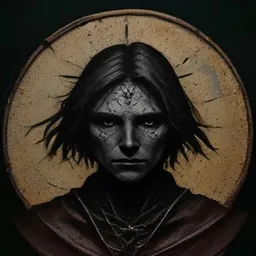
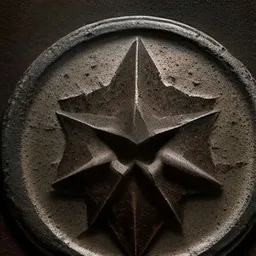
Arène : tous les portraits peints des créatures (35), bêtes refaites sans visage humain
Claude-Session: https://claude.ai/code/session_01Mt2e3itZ4Mc98AKZKLgxUC

diff --git a/tv/tools/images-cartes/generer-creatures.py b/tv/tools/images-cartes/generer-creatures.py
@@ -8,9 +8,14 @@ from PIL import Image
 D = Path(__file__).resolve().parents[2] / 'img' / 'creatures'
 STYLE = ('dark fantasy creature portrait, head and shoulders, facing the viewer, centered, ink and watercolor illustration on aged parchment, '
          'bold ink outlines, muted earthy colors with one vivid accent, dramatic rim light, dark vignette, plain dark background, no text')
+# pour les bêtes, sans « portrait » : sinon le modèle dessine une personne
+STYLE_BETE = ('dark fantasy bestiary illustration of the creature alone, no human, no person, no face of a person, centered, close-up, '
+              'ink and watercolor on aged parchment, bold ink outlines, muted earthy colors with one vivid accent, dark vignette, plain dark background, no text')
+BETES = {'garde','oiseau','felin','canide','bovin','cheval','singe','ours','reptile','insecte','rongeur','aquatique','objet','bete','luciole',
+         'Larve de lave','Anguille des canaux','Luciole ardente','Crabe-racine','Reine-luciole','Mâtin de cloche'}
 SUJETS = {
  'heros': 'a hooded wandering hero with a glowing staff and red cloak, determined eyes',
- 'garde': 'a great round iron shield with a carved star emblem, glowing faintly, no person',
+ 'garde': 'a great round iron shield with a carved star emblem lying on stone, glowing faintly, still life, object only',
  'sentinelle': 'a stone sentinel golem with glowing runes and a spear',
  'oiseau': 'a fierce bird of prey with spread wings and sharp beak',
  'felin': 'a wild lynx-like cat with tufted ears and glowing eyes',
@@ -20,26 +25,26 @@ SUJETS = {
  'singe': 'a maned baboon-like monkey with intense red chest',
  'ours': 'a huge bear standing, roaring',
  'reptile': 'a scaled lizard-serpent with forked tongue',
- 'insecte': 'a giant beetle with iridescent shell surrounded by a buzzing swarm',
+ 'insecte': 'a giant horned beetle insect with iridescent shell, surrounded by a buzzing swarm of flies',
  'rongeur': 'a quick hare-like rodent with long ears, alert',
- 'aquatique': 'a fierce sea creature, eel and fish scales, dripping water',
+ 'aquatique': 'a fierce pike fish monster leaping from water, scales and fins',
  'humain': 'a battle-worn soldier in leather armor with a spear',
- 'objet': 'an animated wall of bones and stones with glowing cracks, no face',
+ 'objet': 'a crude barricade wall made of bones, stones and timber with glowing runes, object only',
  'esprit': 'a translucent ghostly spirit with glowing eyes and wisps of smoke',
  'bete': 'a strange mosaic beast with patterned hide and curled horns',
- 'luciole': 'a glowing giant firefly creature with luminous abdomen',
+ 'luciole': 'a giant glowing firefly insect with luminous abdomen and translucent wings',
  'lanciere': 'a radiant warrior woman with a long spear at dawn',
  'Pillard des sapins': 'a savage bandit with pine branches in his hair and an axe',
  "Archère d'écorce": 'an archer woman with bark skin and a bow',
  'Voïvode sans mémoire': 'a hollow-eyed crowned warlord in fur, ancient and menacing',
  "Gardien d'édit": 'an armored guardian holding a stone tablet of laws',
- 'Larve de lave': 'a molten lava larva with glowing cracks',
+ 'Larve de lave': 'a huge grub larva worm made of molten lava with glowing cracks',
  'Scribe-tyran': 'a tyrant scribe in dark robes with a giant quill and chains',
  'Glaneur hagard': 'a haggard gleaner with a sickle, hollow cheeks',
- 'Anguille des canaux': 'a monstrous canal eel with needle teeth',
+ 'Anguille des canaux': 'a monstrous eel fish with needle teeth bursting from dark water',
  'Mère des Gerbes': 'a towering harvest matron made of wheat sheaves with a scythe',
- 'Luciole ardente': 'a burning firefly monster with flaming wings',
- 'Crabe-racine': 'a crab with a shell overgrown by roots and moss',
+ 'Luciole ardente': 'a giant burning firefly insect monster with flaming wings',
+ 'Crabe-racine': 'a giant crab with big claws, its shell overgrown by roots and moss',
  'Reine-luciole': 'a glowing firefly queen with a crown of light',
  'Colporteur givré': 'a frost-covered peddler with icicles and a heavy pack',
  'Mâtin de cloche': 'a huge mastiff with a bronze bell collar, drooling',
@@ -51,7 +56,7 @@ def main():
     for i,(k,s) in enumerate(SUJETS.items()):
         f = D / (k.replace("'", '').replace(' ', '_') + '.webp')
         if f.exists(): continue
-        url = 'https://image.pollinations.ai/prompt/' + urllib.parse.quote(f'{s}. {STYLE}') + f'?width=384&height=448&nologo=true&seed={101+i}'
+        url = 'https://image.pollinations.ai/prompt/' + urllib.parse.quote(f'{s}. {STYLE_BETE if k in BETES else STYLE}') + f'?width=384&height=448&nologo=true&seed={101+i}'
         for essai in range(4):
             r = subprocess.run(['curl', '-s', '--max-time', '120', url], capture_output=True)
             try:
